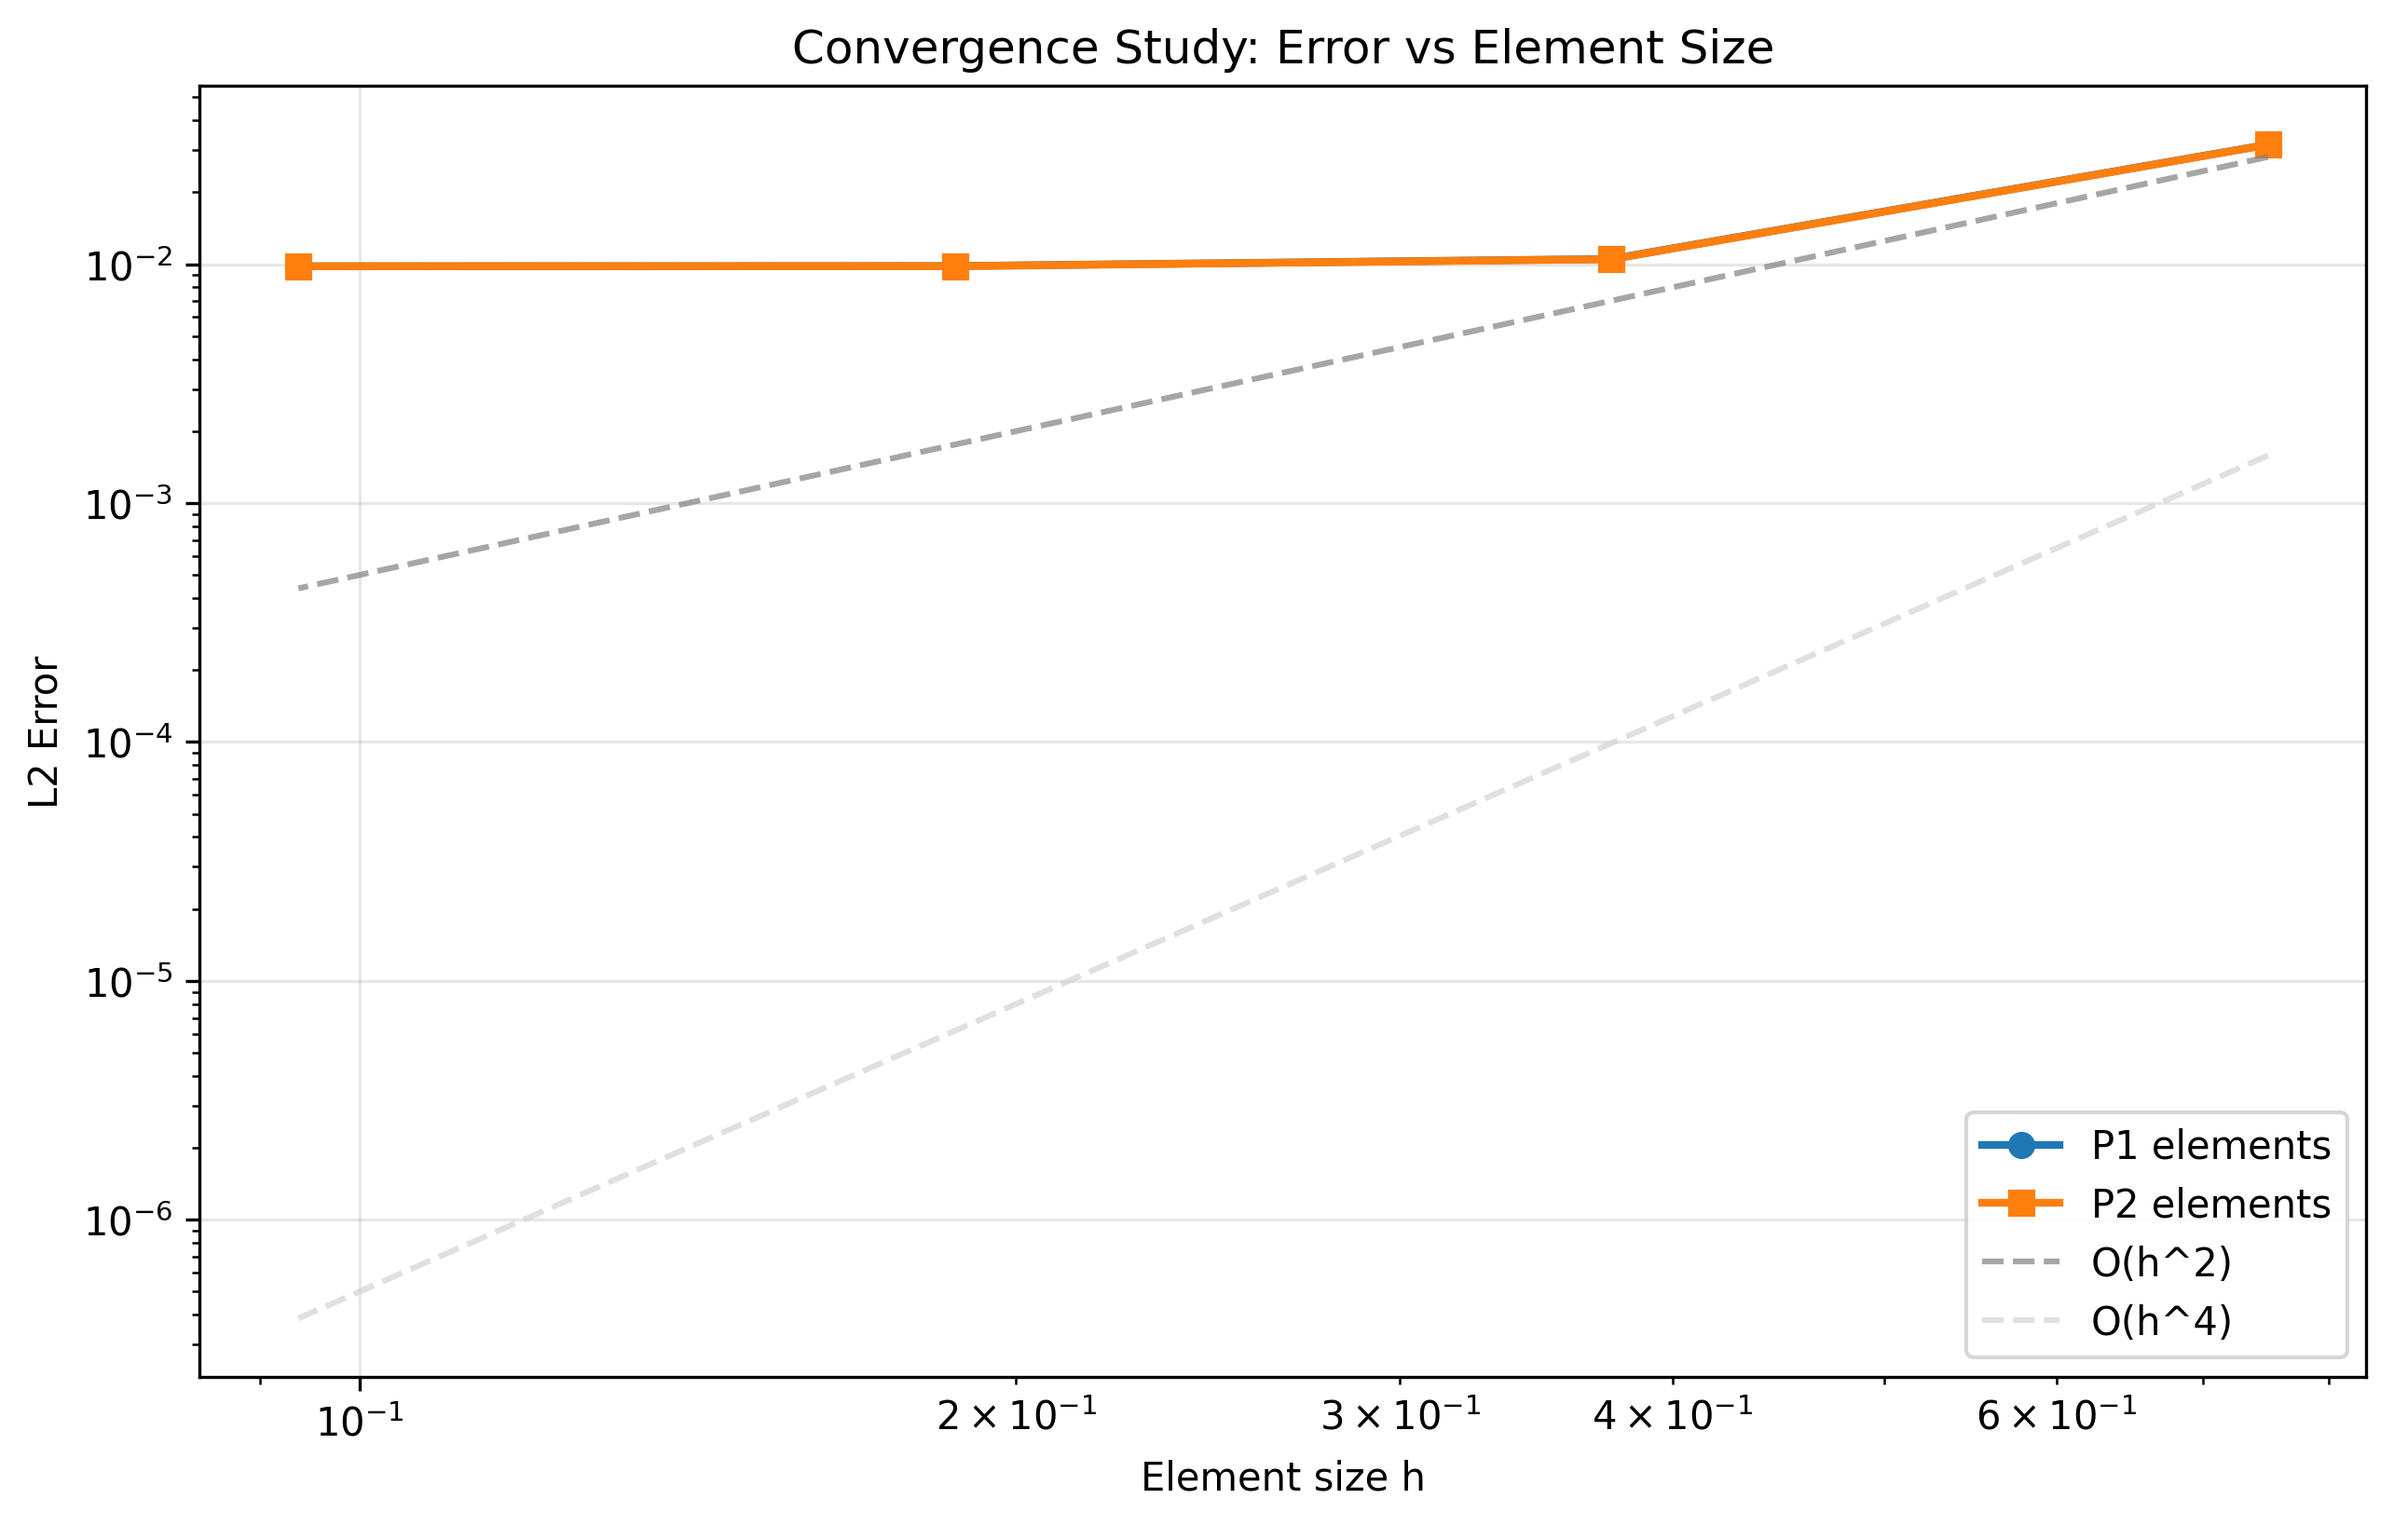
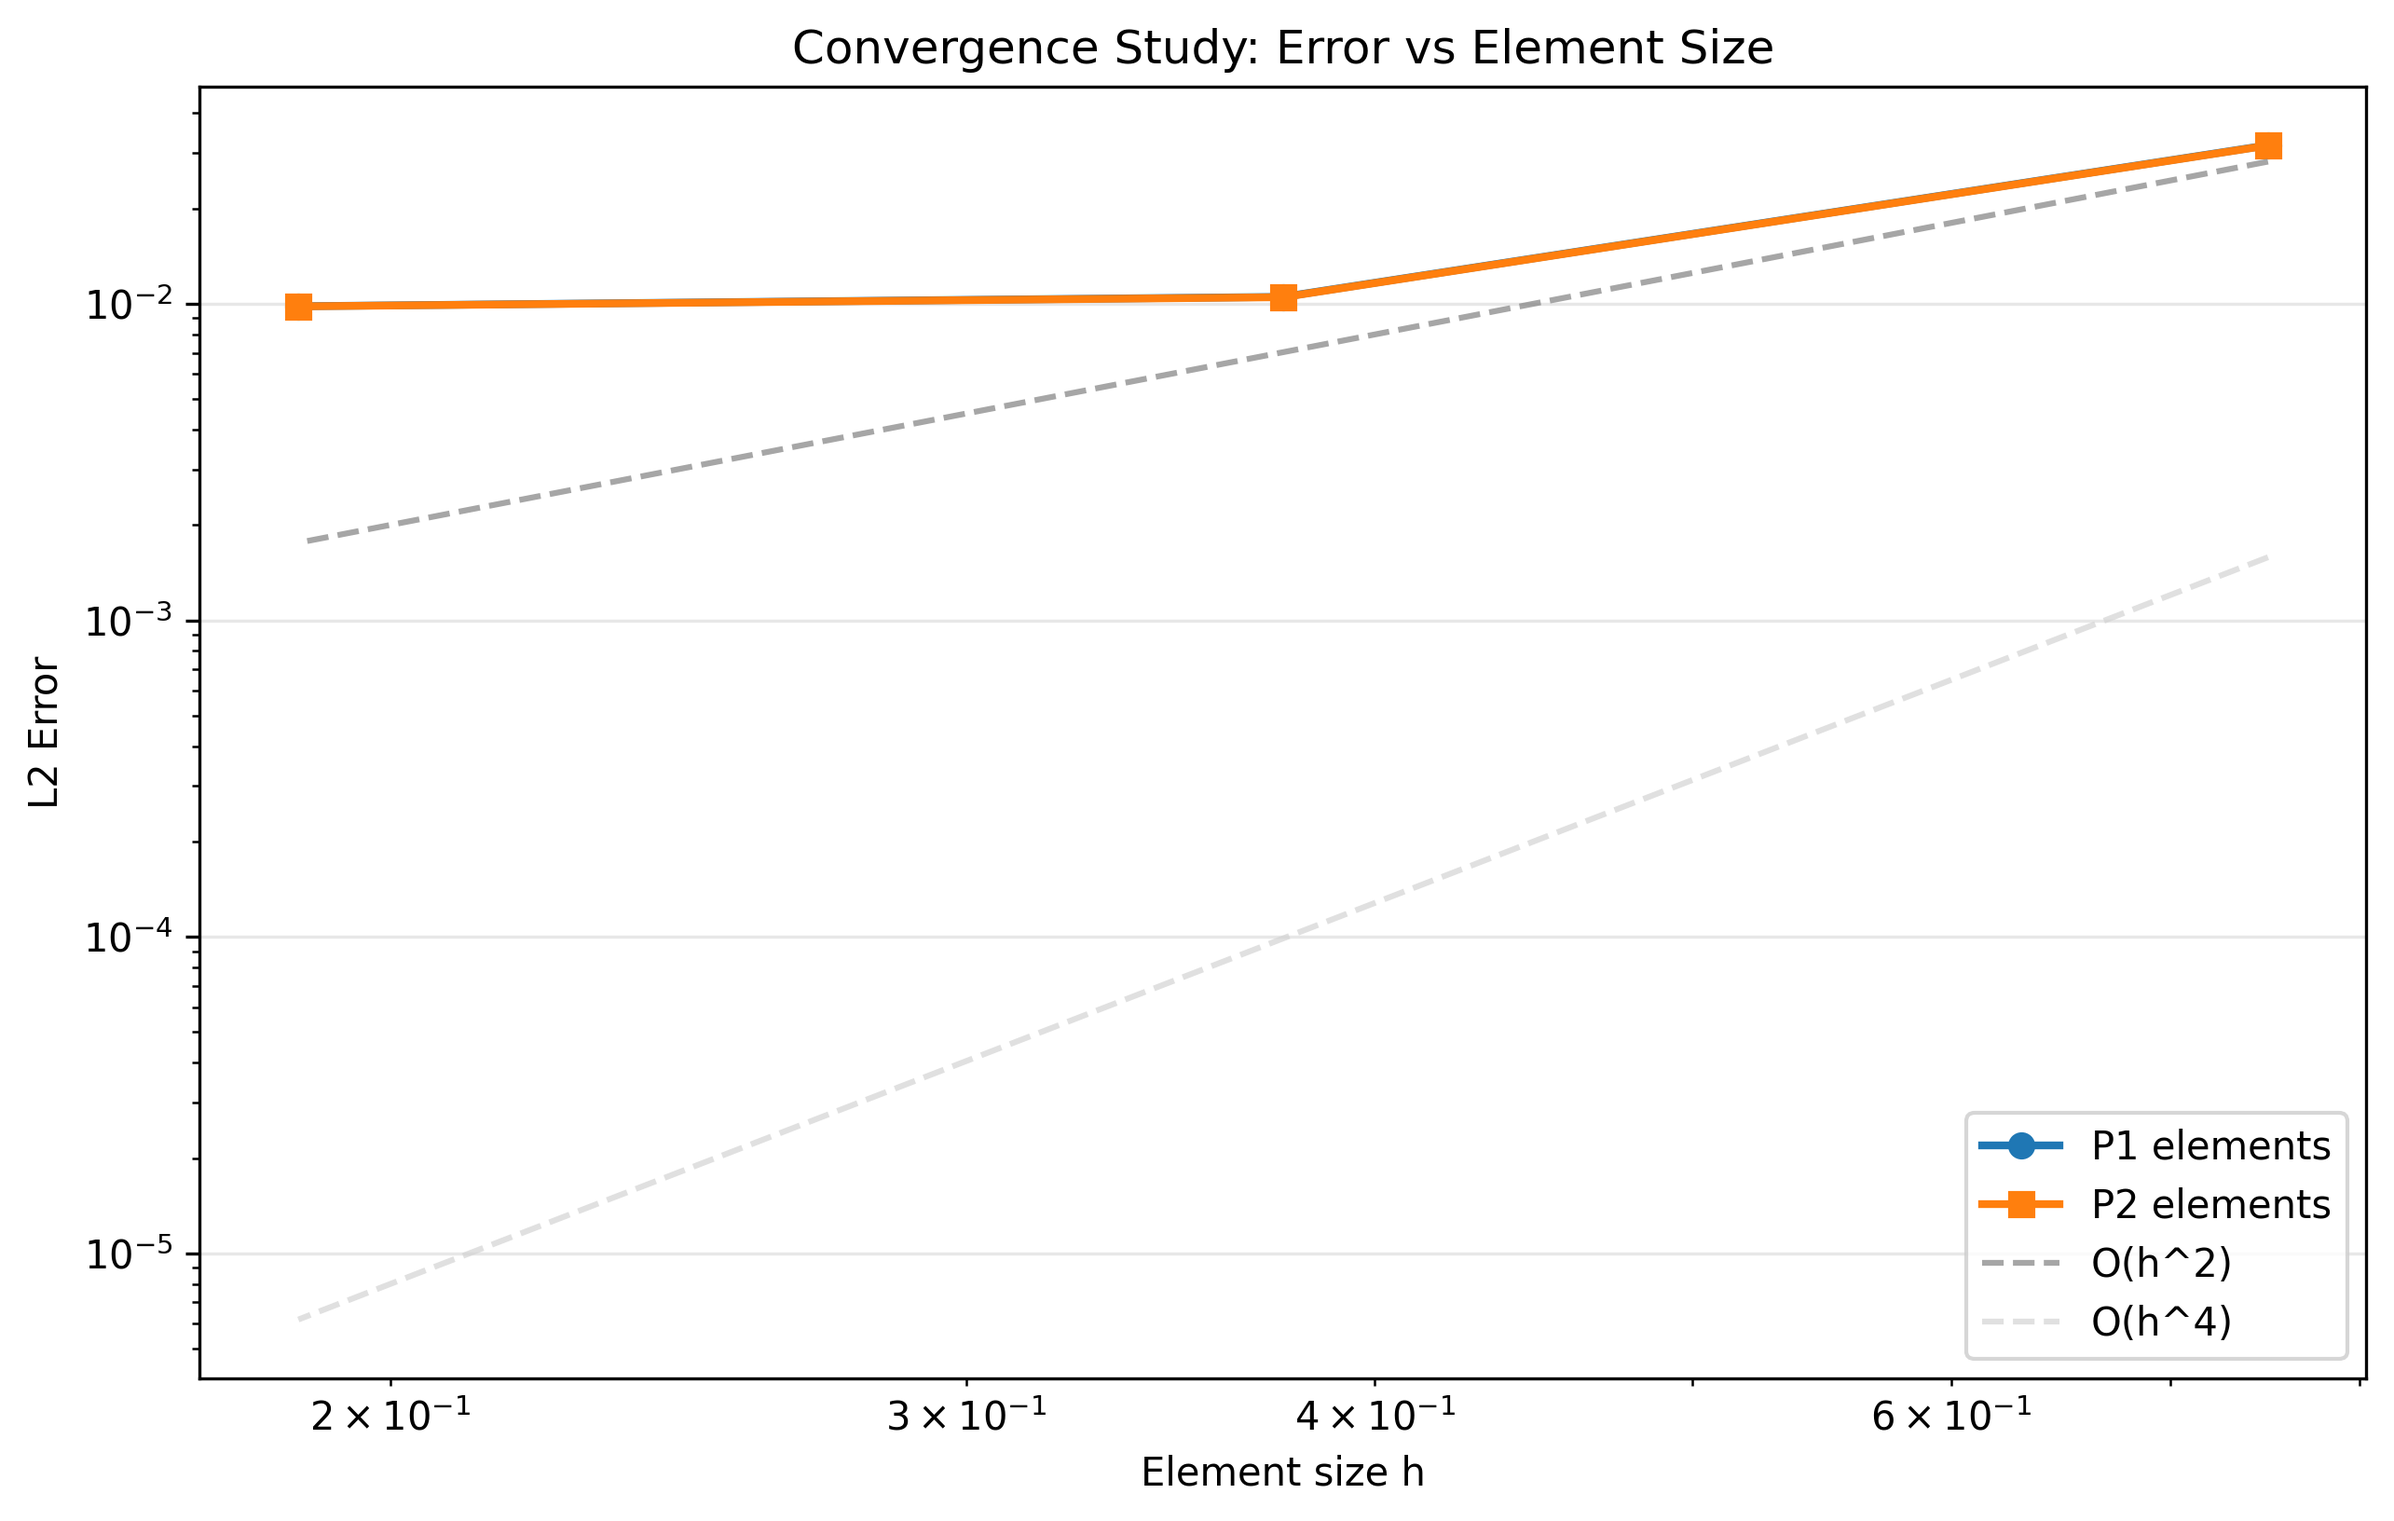
Added tqdm

diff --git a/code/fem_solver.py b/code/fem_solver.py
@@ -8,6 +8,8 @@ from scipy.sparse.linalg import spsolve
 from black_scholes_pde import BaseBlackScholes
 from NAPDE_EPFL.quad import QuadRule
 
+from tqdm import tqdm
+
 # Gaussian quadrature for 1D interval [0, 1] using Legendre polynomials.    
 def univariate_gauss_interval(npoints=4):
     """
@@ -349,7 +351,7 @@ class FEMSolver:
             # System matrix: (M + dt*A)
             system_matrix = M + dt * A
 
-            for n in range(numb_timesteps):
+            for n in tqdm(range(numb_timesteps), desc=f"Solving in time (Backward Euler and {self.element_type})"):
                 # Right-hand side: M * u^n + dt * F^{n+1}
                 F_next = self.make_rhs(times[n + 1])
                 
@@ -367,8 +369,8 @@ class FEMSolver:
             # System matrices
             system_matrix = M + 0.5 * dt * A
             rhs_matrix = M - 0.5 * dt * A
-            
-            for n in range(numb_timesteps):
+
+            for n in tqdm(range(numb_timesteps), desc=f"Solving in time (Crank-Nicolson and {self.element_type})"):
                 t_current = times[n]
                 t_next = times[n + 1]
                 

diff --git a/code/main.py b/code/main.py
@@ -9,8 +9,8 @@ from fem_solver import FEMSolver
 from black_scholes_pde import *
 
 # Flags to control which parts of the code to run
-COMPUTE_EXAMPLE_1 = True
-COMPUTE_EXAMPLE_2 = True
+COMPUTE_EXAMPLE_1 = False
+COMPUTE_EXAMPLE_2 = False
 COMPUTE_ANALYTICAL = True
 # The convergence study is computationally expensive, so it can be disabled
 COMPUTE_CONVERGENCE_STUDY = True
@@ -417,7 +417,7 @@ if __name__ == "__main__":
         
         # Run convergence study to see the error vs. h curve
         if COMPUTE_CONVERGENCE_STUDY:
-            element_counts = [200 * 2**i for i in range(1, 5)]
+            element_counts = [200 * 2**i for i in range(1, 4)]
             h_values = [(S_max - S_min) / e for e in element_counts]
             timesteps_per_element = [int(np.ceil(T / (h**2))) for h in h_values]
             convergence_errors = convergence_study(pde, element_counts, timesteps_per_element, numb_quad_points=50)
